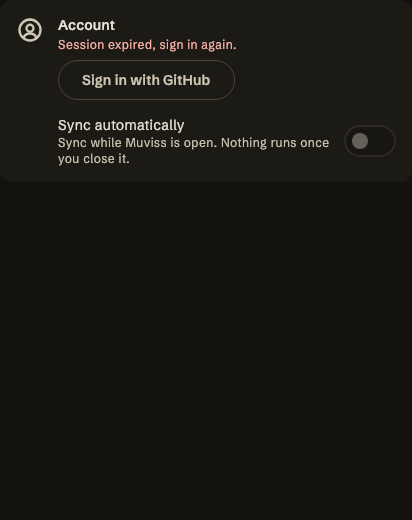
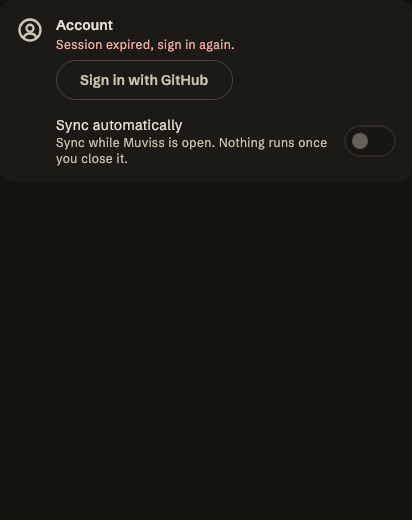
chore(profile): Identity, Sync and Rewatch spacing on the MuvissSpacing grid (#63)
Twenty on-grid literals become tokens 1:1 (pixel-identical). The two
off-grid gaps snap to the nearest step: the sync row's icon-to-text 14dp to
m (12dp) and the rewatch trend's 6dp to s (8dp); the rewatch and
sync-section goldens are re-recorded for those 2dp moves. The 2dp gaps
between a label and its own subline stay literal: they are below the grid's
smallest step by design, part of the text pair rather than layout.

Changed region(s): [[0.1165, 0.2154, 0.7864, 0.3385], [0.1165, 0.0308, 0.5825, 0.1846], [0.5534, 0.1231, 0.5825, 0.1846]]

diff --git a/feature/profile/ui/src/commonMain/kotlin/com/codingpit/muviss/feature/profile/ui/SyncSection.kt b/feature/profile/ui/src/commonMain/kotlin/com/codingpit/muviss/feature/profile/ui/SyncSection.kt
@@ -26,6 +26,7 @@ import androidx.compose.ui.semantics.semantics
 import androidx.compose.ui.semantics.stateDescription
 import androidx.compose.ui.unit.dp
 import com.codingpit.muviss.core.designsystem.icon.MuvissIcons
+import com.codingpit.muviss.core.designsystem.theme.MuvissSpacing
 import com.codingpit.muviss.feature.profile.domain.SyncAccountState
 import com.codingpit.muviss.feature.profile.domain.SyncCopy
 import com.codingpit.muviss.feature.profile.domain.SyncProvider
@@ -108,8 +109,8 @@ internal fun SyncSection(sync: SyncUiState, actions: SyncSectionActions, modifie
         modifier = modifier.fillMaxWidth().testTag(SYNC_SECTION_TAG),
     ) {
         Row(
-            Modifier.padding(16.dp),
-            horizontalArrangement = Arrangement.spacedBy(14.dp),
+            Modifier.padding(MuvissSpacing.l),
+            horizontalArrangement = Arrangement.spacedBy(MuvissSpacing.m),
             verticalAlignment = Alignment.Top,
         ) {
             Icon(
@@ -118,7 +119,7 @@ internal fun SyncSection(sync: SyncUiState, actions: SyncSectionActions, modifie
                 tint = MaterialTheme.colorScheme.onSurfaceVariant,
                 modifier = Modifier.size(28.dp),
             )
-            Column(Modifier.weight(1f), verticalArrangement = Arrangement.spacedBy(4.dp)) {
+            Column(Modifier.weight(1f), verticalArrangement = Arrangement.spacedBy(MuvissSpacing.xs)) {
                 AccountContent(sync, account, actions)
                 if (sync.automaticSyncAvailable) AutomaticSyncRow(sync, actions)
                 if (account is SyncAccountState.SignedIn) ResyncRow(sync, actions)
@@ -137,7 +138,7 @@ private fun AccountContent(sync: SyncUiState, account: SyncAccountState, actions
         is SyncAccountState.Locked -> {
             Text(stringResource(Res.string.sync_title), style = MaterialTheme.typography.titleSmall)
             Hint(stringResource(Res.string.sync_pitch))
-            Row(horizontalArrangement = Arrangement.spacedBy(8.dp), verticalAlignment = Alignment.CenterVertically) {
+            Row(horizontalArrangement = Arrangement.spacedBy(MuvissSpacing.s), verticalAlignment = Alignment.CenterVertically) {
                 OutlinedButton(onClick = actions.onUnlockClicked, modifier = Modifier.testTag(SYNC_UNLOCK_TAG)) { Text(stringResource(Res.string.sync_unlock)) }
                 // A lapsed subscriber is still signed in; without this
                 // the paywall would be the only thing they can reach.
@@ -173,7 +174,7 @@ private fun SignedOutContent(sync: SyncUiState, actions: SyncSectionActions, exp
     // One button per provider rather than a picker: there are
     // two at most, and a picker would add a step to the one
     // action on this row.
-    Row(horizontalArrangement = Arrangement.spacedBy(8.dp)) {
+    Row(horizontalArrangement = Arrangement.spacedBy(MuvissSpacing.s)) {
         sync.providers.forEach { provider ->
             OutlinedButton(
                 onClick = { actions.onSignInClicked(provider) },
@@ -191,7 +192,7 @@ private fun SignedInContent(sync: SyncUiState, account: SyncAccountState.SignedI
     Text(account.email ?: stringResource(Res.string.signed_in), style = MaterialTheme.typography.titleSmall)
     Hint(sync.lastSyncedLabel, Modifier.testTag(SYNC_LAST_SYNCED_TAG))
     sync.statusDetail?.let { StatusDetail(it, onRetry = actions.onSyncNowClicked, retryEnabled = !sync.syncing) }
-    Row(horizontalArrangement = Arrangement.spacedBy(8.dp), verticalAlignment = Alignment.CenterVertically) {
+    Row(horizontalArrangement = Arrangement.spacedBy(MuvissSpacing.s), verticalAlignment = Alignment.CenterVertically) {
         OutlinedButton(onClick = actions.onSyncNowClicked, enabled = !sync.syncing, modifier = Modifier.testTag(SYNC_NOW_TAG)) {
             Icon(MuvissIcons.Sync, contentDescription = null, modifier = Modifier.size(16.dp))
             Text(" " + stringResource(if (sync.syncing) Res.string.syncing else Res.string.sync_now))
@@ -203,7 +204,7 @@ private fun SignedInContent(sync: SyncUiState, account: SyncAccountState.SignedI
 @Composable
 private fun StatusDetail(detail: SyncStatusDetail, onRetry: () -> Unit, retryEnabled: Boolean) {
     val failed = detail is SyncStatusDetail.Failed
-    Row(horizontalArrangement = Arrangement.spacedBy(8.dp), verticalAlignment = Alignment.CenterVertically) {
+    Row(horizontalArrangement = Arrangement.spacedBy(MuvissSpacing.s), verticalAlignment = Alignment.CenterVertically) {
         Text(
             SyncCopy.detail(detail),
             style = MaterialTheme.typography.bodySmall,
@@ -231,7 +232,7 @@ private fun AutomaticSyncRow(sync: SyncUiState, actions: SyncSectionActions) {
     Row(
         Modifier
             .fillMaxWidth()
-            .padding(top = 8.dp)
+            .padding(top = MuvissSpacing.s)
             .testTag(SYNC_AUTOMATIC_SWITCH_TAG)
             .toggleable(
                 value = sync.automaticSync,
@@ -243,7 +244,7 @@ private fun AutomaticSyncRow(sync: SyncUiState, actions: SyncSectionActions) {
                 contentDescription = label
                 stateDescription = if (sync.automaticSync) on else off
             },
-        horizontalArrangement = Arrangement.spacedBy(12.dp),
+        horizontalArrangement = Arrangement.spacedBy(MuvissSpacing.m),
         verticalAlignment = Alignment.CenterVertically,
     ) {
         Column(Modifier.weight(1f).clearAndSetSemantics { }, verticalArrangement = Arrangement.spacedBy(2.dp)) {
@@ -294,6 +295,6 @@ private fun Hint(text: String, modifier: Modifier = Modifier) {
         text,
         style = MaterialTheme.typography.bodySmall,
         color = MaterialTheme.colorScheme.onSurfaceVariant,
-        modifier = modifier.padding(bottom = 4.dp),
+        modifier = modifier.padding(bottom = MuvissSpacing.xs),
     )
 }

diff --git a/feature/profile/ui/src/commonMain/kotlin/com/codingpit/muviss/feature/profile/ui/RewatchScreen.kt b/feature/profile/ui/src/commonMain/kotlin/com/codingpit/muviss/feature/profile/ui/RewatchScreen.kt
@@ -106,9 +106,9 @@ internal fun RewatchScreenContent(
                 .fillMaxSize()
                 .padding(padding)
                 .verticalScroll(rememberScrollState())
-                .padding(16.dp)
+                .padding(MuvissSpacing.l)
                 .padding(bottom = MuvissSpacing.bottomContent),
-            verticalArrangement = Arrangement.spacedBy(24.dp),
+            verticalArrangement = Arrangement.spacedBy(MuvissSpacing.xl),
         ) {
             WindowSelector(selected = state.window, onSelected = onWindowSelected)
 
@@ -123,7 +123,7 @@ internal fun RewatchScreenContent(
             // Its own heading because its window is not the one above: a
             // rolling year is always full and comparable, where "this year"
             // renders a stub every January (ADR 0012).
-            Column(verticalArrangement = Arrangement.spacedBy(8.dp)) {
+            Column(verticalArrangement = Arrangement.spacedBy(MuvissSpacing.s)) {
                 Text(stringResource(Res.string.rewatch_trend), style = MaterialTheme.typography.labelLarge)
                 RewatchTrendChart(state.stats.monthly, Modifier.fillMaxWidth())
             }
@@ -150,7 +150,7 @@ private fun WindowSelector(selected: RewatchWindow, onSelected: (RewatchWindow) 
 
 @Composable
 private fun RankingLists(ranking: RewatchRanking) {
-    Column(verticalArrangement = Arrangement.spacedBy(24.dp)) {
+    Column(verticalArrangement = Arrangement.spacedBy(MuvissSpacing.xl)) {
         if (ranking.shows.isNotEmpty()) RankingList(stringResource(Res.string.ranking_shows), ranking.shows)
         if (ranking.movies.isNotEmpty()) RankingList(stringResource(Res.string.ranking_movies), ranking.movies)
     }
@@ -158,7 +158,7 @@ private fun RankingLists(ranking: RewatchRanking) {
 
 @Composable
 private fun RankingList(heading: String, entries: List<RewatchEntry>) {
-    Column(verticalArrangement = Arrangement.spacedBy(12.dp)) {
+    Column(verticalArrangement = Arrangement.spacedBy(MuvissSpacing.m)) {
         Text(heading, style = MaterialTheme.typography.labelLarge)
         entries.forEachIndexed { index, entry -> RewatchRow(position = index + 1, entry = entry) }
     }
@@ -173,7 +173,7 @@ private fun RewatchRow(position: Int, entry: RewatchEntry, modifier: Modifier = 
             .fillMaxWidth()
             .testTag(REWATCH_ROW_TAG)
             .semantics { contentDescription = description },
-        horizontalArrangement = Arrangement.spacedBy(12.dp),
+        horizontalArrangement = Arrangement.spacedBy(MuvissSpacing.m),
         verticalAlignment = Alignment.CenterVertically,
     ) {
         Text(

diff --git a/feature/profile/ui/src/commonMain/kotlin/com/codingpit/muviss/feature/profile/ui/ProfileCharts.kt b/feature/profile/ui/src/commonMain/kotlin/com/codingpit/muviss/feature/profile/ui/ProfileCharts.kt
@@ -485,10 +485,10 @@ fun RewatchTrendChart(months: List<MonthlyRewatches>, modifier: Modifier = Modif
     val maxCount = months.maxOf { it.rewatches }.coerceAtLeast(1)
     val monthInitials = stringResource(Res.string.month_initials).split(',')
 
-    Column(modifier, verticalArrangement = Arrangement.spacedBy(6.dp)) {
+    Column(modifier, verticalArrangement = Arrangement.spacedBy(MuvissSpacing.s)) {
         Row(
             Modifier.fillMaxWidth().height(TREND_HEIGHT).testTag(REWATCH_TREND_TAG),
-            horizontalArrangement = Arrangement.spacedBy(4.dp),
+            horizontalArrangement = Arrangement.spacedBy(MuvissSpacing.xs),
             verticalAlignment = Alignment.Bottom,
         ) {
             months.forEach { month ->
@@ -508,7 +508,7 @@ fun RewatchTrendChart(months: List<MonthlyRewatches>, modifier: Modifier = Modif
                 }
             }
         }
-        Row(Modifier.fillMaxWidth(), horizontalArrangement = Arrangement.spacedBy(4.dp)) {
+        Row(Modifier.fillMaxWidth(), horizontalArrangement = Arrangement.spacedBy(MuvissSpacing.xs)) {
             months.forEach { month ->
                 Text(
                     text = monthInitials[month.month - 1],

diff --git a/feature/profile/ui/src/commonMain/kotlin/com/codingpit/muviss/feature/profile/ui/ProfileScreen.kt b/feature/profile/ui/src/commonMain/kotlin/com/codingpit/muviss/feature/profile/ui/ProfileScreen.kt
@@ -215,8 +215,8 @@ private fun IdentitySection(
     onEditName: () -> Unit,
     onAvatarSelected: (String) -> Unit,
 ) {
-    Column(verticalArrangement = Arrangement.spacedBy(12.dp)) {
-        Row(verticalAlignment = Alignment.CenterVertically, horizontalArrangement = Arrangement.spacedBy(16.dp)) {
+    Column(verticalArrangement = Arrangement.spacedBy(MuvissSpacing.m)) {
+        Row(verticalAlignment = Alignment.CenterVertically, horizontalArrangement = Arrangement.spacedBy(MuvissSpacing.l)) {
             AvatarBadge(profile.avatar, profile.displayName, size = 64.dp)
             Column {
                 Text(profile.displayName, style = MaterialTheme.typography.titleLarge)
@@ -226,7 +226,7 @@ private fun IdentitySection(
             }
         }
         Text(stringResource(Res.string.avatar), style = MaterialTheme.typography.titleSmall)
-        LazyRow(horizontalArrangement = Arrangement.spacedBy(12.dp)) {
+        LazyRow(horizontalArrangement = Arrangement.spacedBy(MuvissSpacing.m)) {
             items(AvatarPresets.all, key = { it.id }) { preset ->
                 AvatarBadge(
                     preset = preset,
